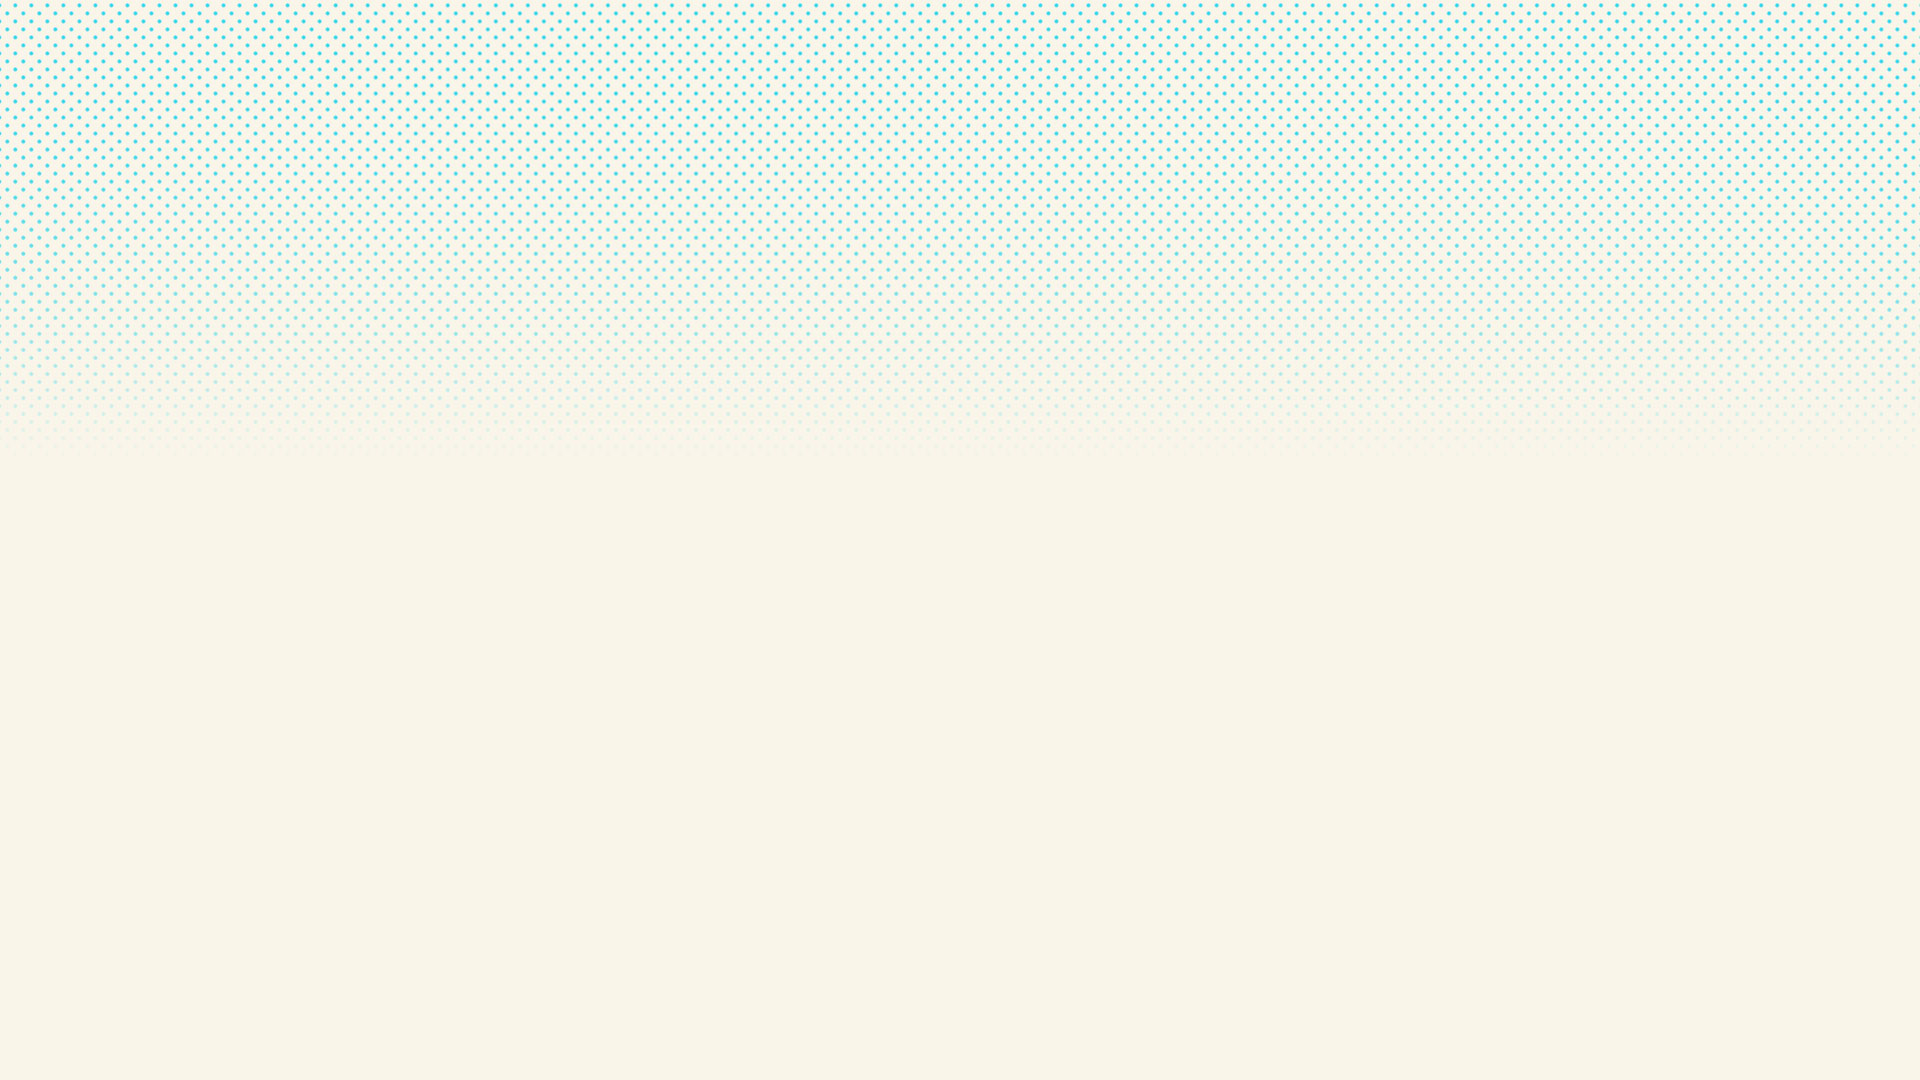
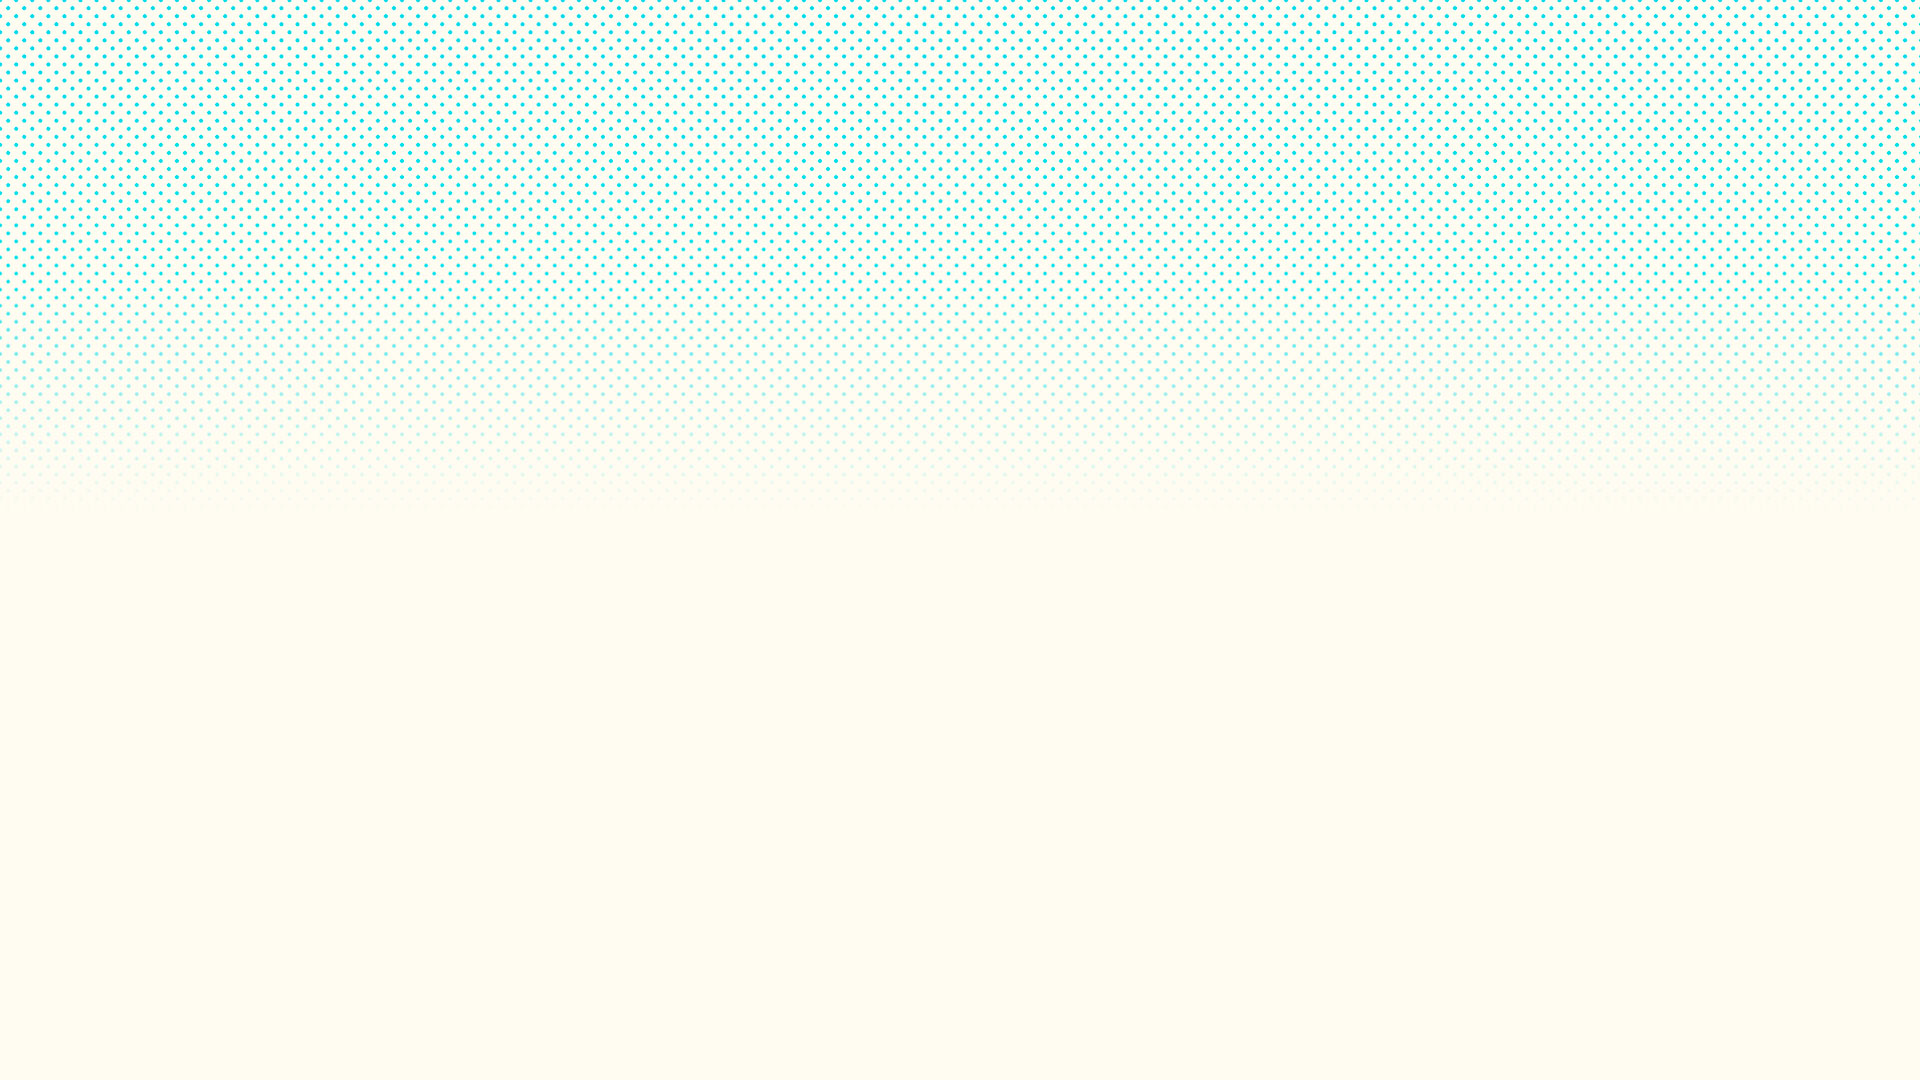
cambios

Changed region(s): [[0.0, 0.0, 1.0, 0.3972]]

diff --git a/index-video.html b/index-video.html
@@ -4,7 +4,7 @@
     <meta charset="UTF-8">
     <meta name="viewport" content="width=device-width, initial-scale=1.0">
     <title>Salud en Espera</title>
-    <link rel="stylesheet" href="./css/style.css?v8">
+    <link rel="stylesheet" href="./css/style.css?v9">
 
     <!-- Ivy Presto headline-->
     <link rel="stylesheet" href="https://use.typekit.net/otp2meg.css">
@@ -1190,11 +1190,7 @@
         </div>
         <div class="ds-dots" aria-hidden="true"></div>
 
-        <div class="box-fuente fuente-atendidos">
-            <p>
-                <span>Fuente: </span> Elaboración propia basada en microdatos del Reunis, CDC Perú e INEI (2025).
-            </p>
-        </div>
+        
     </section>
 
     <div class="box-texto">
@@ -1409,7 +1405,10 @@
 
             <div class="voz-content">
                 <!--<h3 class="voz-titulo">&ldquo;El sistema que merecemos&rdquo;</h3>   -->             
-                <blockquote class="voz-quote">"Sobreviví al cáncer, pero no sé si hubiera sobrevivido al sistema sin tanta lucha."</blockquote>
+                <blockquote class="voz-quote">
+                    "Sobreviví al cáncer, pero no sé si hubiera sobrevivido al sistema sin tanta lucha."
+                    <span class="nombre">Maria, sobreviviente del cáncer y del sistema</span>
+                </blockquote>                
                 <div class="voz-audio-wrap">
                     <audio class="voz-audio-el" preload="none" src="./audio/audio-final.mp3"></audio>
                     <div class="ap-row">

diff --git a/css/style.css b/css/style.css
@@ -62,7 +62,7 @@ body {
 }
 
 section.inicio {
-    background: url('../img/bg-pantalla-inicio.jpg') no-repeat center;
+    background: url('../img/bg-pantalla-inicio.jpg?v2') no-repeat center;
     background-size: cover;
     display: flex;
     flex-direction: column;
@@ -1590,6 +1590,10 @@ span.separador {
     margin: 0 0 22px;
     padding: 10px;
 }
+    .voz-quote span{
+        display: block;
+        font-size: 1.1rem;
+    }
 .voz-audio-wrap {
     background: #eeecea;
     border-radius: 8px;
